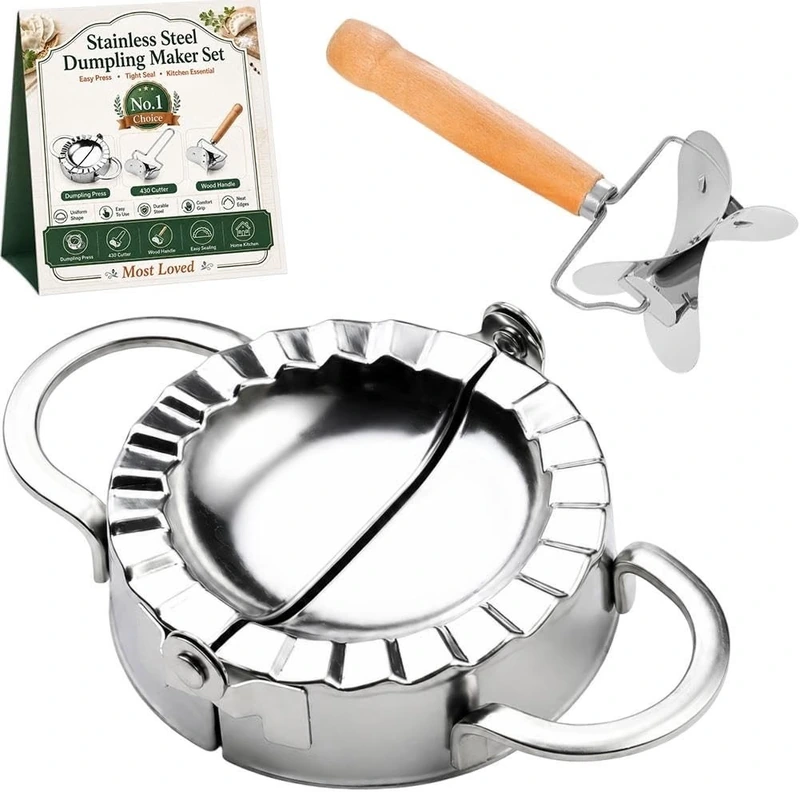
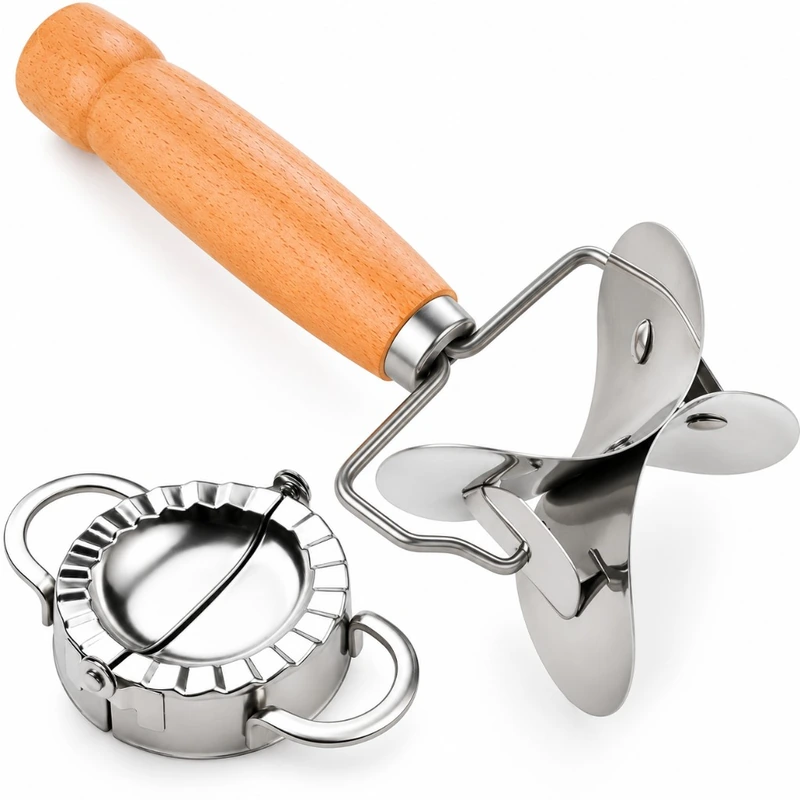
Replace dumpling maker hero gallery with new marketing images.
Swap all four hero slides for product, process, comparison, and details graphics.

diff --git a/dumpling-maker-set-panama.html b/dumpling-maker-set-panama.html
@@ -5,8 +5,8 @@
   <meta name="viewport" content="width=device-width, initial-scale=1.0">
   <title>Maker & Dough Cutter Set | CompraConfio Panamá — Pago Contra Entrega</title>
   <meta name="description" content="Set cortador y molde para empanadas: corta, rellena y sella en pocos pasos. Acero inoxidable, manual y reutilizable. Envío gratis y pago contra entrega en Panamá.">
-  <link rel="preload" as="image" href="/images/dumpling-maker-set/hero-product-800.webp?v=20260925a" type="image/webp" fetchpriority="high" media="(max-width: 960px)">
-  <link rel="preload" as="image" href="/images/dumpling-maker-set/hero-product.webp?v=20260925a" type="image/webp" fetchpriority="high" media="(min-width: 961px)">
+  <link rel="preload" as="image" href="/images/dumpling-maker-set/hero-product-800.webp?v=20260925b" type="image/webp" fetchpriority="high" media="(max-width: 960px)">
+  <link rel="preload" as="image" href="/images/dumpling-maker-set/hero-product.webp?v=20260925b" type="image/webp" fetchpriority="high" media="(min-width: 961px)">
   <link rel="preload" as="style" href="/css/product.css?v=20260811a">
   <link rel="preload" as="style" href="/css/dumpling-maker-set.css?v=20260925a">
   <link rel="preconnect" href="https://fonts.googleapis.com">
@@ -48,36 +48,36 @@
       <div class="gallery-stage" id="galleryTrack">
         <div class="slide">
           <picture>
-            <source type="image/webp" media="(max-width: 960px)" srcset="/images/dumpling-maker-set/hero-product-800.webp?v=20260925a">
-            <source type="image/webp" srcset="/images/dumpling-maker-set/hero-product.webp?v=20260925a">
-            <img class="is-contain" src="/images/dumpling-maker-set/hero-product.png?v=20260925a" alt="Maker & Dough Cutter Set — cortador y molde de acero inoxidable para empanadas" width="800" height="800" loading="eager" decoding="async" fetchpriority="high">
+            <source type="image/webp" media="(max-width: 960px)" srcset="/images/dumpling-maker-set/hero-product-800.webp?v=20260925b">
+            <source type="image/webp" srcset="/images/dumpling-maker-set/hero-product.webp?v=20260925b">
+            <img class="is-contain" src="/images/dumpling-maker-set/hero-product.png?v=20260925b" alt="Maker & Dough Cutter Set — cortador y molde de acero inoxidable para empanadas" width="800" height="800" loading="eager" decoding="async" fetchpriority="high">
           </picture>
         </div>
         <div class="slide">
           <picture>
-            <source type="image/webp" srcset="/images/dumpling-maker-set/hero-uniform.webp?v=20260925a">
-            <img class="is-contain" src="/images/dumpling-maker-set/hero-uniform.png?v=20260925a" alt="Formas uniformes — empanadas y dumplings con aspecto consistente" width="800" height="800" loading="lazy" decoding="async">
+            <source type="image/webp" srcset="/images/dumpling-maker-set/hero-process.webp?v=20260925b">
+            <img class="is-contain" src="/images/dumpling-maker-set/hero-process.png?v=20260925b" alt="Preparación completa — corta, rellena, presiona y sella en 3 pasos" width="800" height="800" loading="lazy" decoding="async">
           </picture>
         </div>
         <div class="slide">
           <picture>
-            <source type="image/webp" srcset="/images/dumpling-maker-set/hero-fast.webp?v=20260925a">
-            <img class="is-contain" src="/images/dumpling-maker-set/hero-fast.png?v=20260925a" alt="Preparación más rápida — corta, rellena y sella en pocos pasos" width="800" height="800" loading="lazy" decoding="async">
+            <source type="image/webp" srcset="/images/dumpling-maker-set/hero-compare.webp?v=20260925b">
+            <img class="is-contain" src="/images/dumpling-maker-set/hero-compare.png?v=20260925b" alt="Comparación — preparación a mano vs set para empanadas" width="800" height="800" loading="lazy" decoding="async">
           </picture>
         </div>
         <div class="slide">
           <picture>
-            <source type="image/webp" srcset="/images/dumpling-maker-set/hero-family.webp?v=20260925a">
-            <img class="is-contain" src="/images/dumpling-maker-set/hero-family.png?v=20260925a" alt="Ideal para cocinar en familia — prepara varias piezas a la vez" width="800" height="800" loading="lazy" decoding="async">
+            <source type="image/webp" srcset="/images/dumpling-maker-set/hero-details.webp?v=20260925b">
+            <img class="is-contain" src="/images/dumpling-maker-set/hero-details.png?v=20260925b" alt="Detalles del producto — mango de madera, cortador giratorio y borde para sellar" width="800" height="800" loading="lazy" decoding="async">
           </picture>
         </div>
       </div>
       <div class="gallery-dots" id="galleryDots" aria-hidden="true"></div>
       <div class="gallery-thumbs">
-        <button type="button" class="thumb is-active" aria-label="Producto"><img src="/images/dumpling-maker-set/hero-product-thumb.webp?v=20260925a" alt="" width="160" height="160" decoding="async"></button>
-        <button type="button" class="thumb" aria-label="Formas uniformes"><img src="/images/dumpling-maker-set/hero-uniform-thumb.webp?v=20260925a" alt="" width="160" height="160" loading="lazy" decoding="async"></button>
-        <button type="button" class="thumb" aria-label="Más rápido"><img src="/images/dumpling-maker-set/hero-fast-thumb.webp?v=20260925a" alt="" width="160" height="160" loading="lazy" decoding="async"></button>
-        <button type="button" class="thumb" aria-label="En familia"><img src="/images/dumpling-maker-set/hero-family-thumb.webp?v=20260925a" alt="" width="160" height="160" loading="lazy" decoding="async"></button>
+        <button type="button" class="thumb is-active" aria-label="Producto"><img src="/images/dumpling-maker-set/hero-product-thumb.webp?v=20260925b" alt="" width="160" height="160" decoding="async"></button>
+        <button type="button" class="thumb" aria-label="3 pasos"><img src="/images/dumpling-maker-set/hero-process-thumb.webp?v=20260925b" alt="" width="160" height="160" loading="lazy" decoding="async"></button>
+        <button type="button" class="thumb" aria-label="Comparación"><img src="/images/dumpling-maker-set/hero-compare-thumb.webp?v=20260925b" alt="" width="160" height="160" loading="lazy" decoding="async"></button>
+        <button type="button" class="thumb" aria-label="Detalles"><img src="/images/dumpling-maker-set/hero-details-thumb.webp?v=20260925b" alt="" width="160" height="160" loading="lazy" decoding="async"></button>
       </div>
     </section>
 
@@ -352,7 +352,7 @@
     </div>
     <div class="order-body">
       <div class="order-product">
-        <img src="/images/dumpling-maker-set/hero-product-thumb.webp?v=20260925a" alt="" width="72" height="72" style="width:72px;height:72px;object-fit:contain;border-radius:8px;background:#fff" loading="lazy" decoding="async">
+        <img src="/images/dumpling-maker-set/hero-product-thumb.webp?v=20260925b" alt="" width="72" height="72" style="width:72px;height:72px;object-fit:contain;border-radius:8px;background:#fff" loading="lazy" decoding="async">
         <div>
           <strong>Maker & Dough Cutter Set</strong>
           <span>Acero inoxidable · Envío gratis</span>
